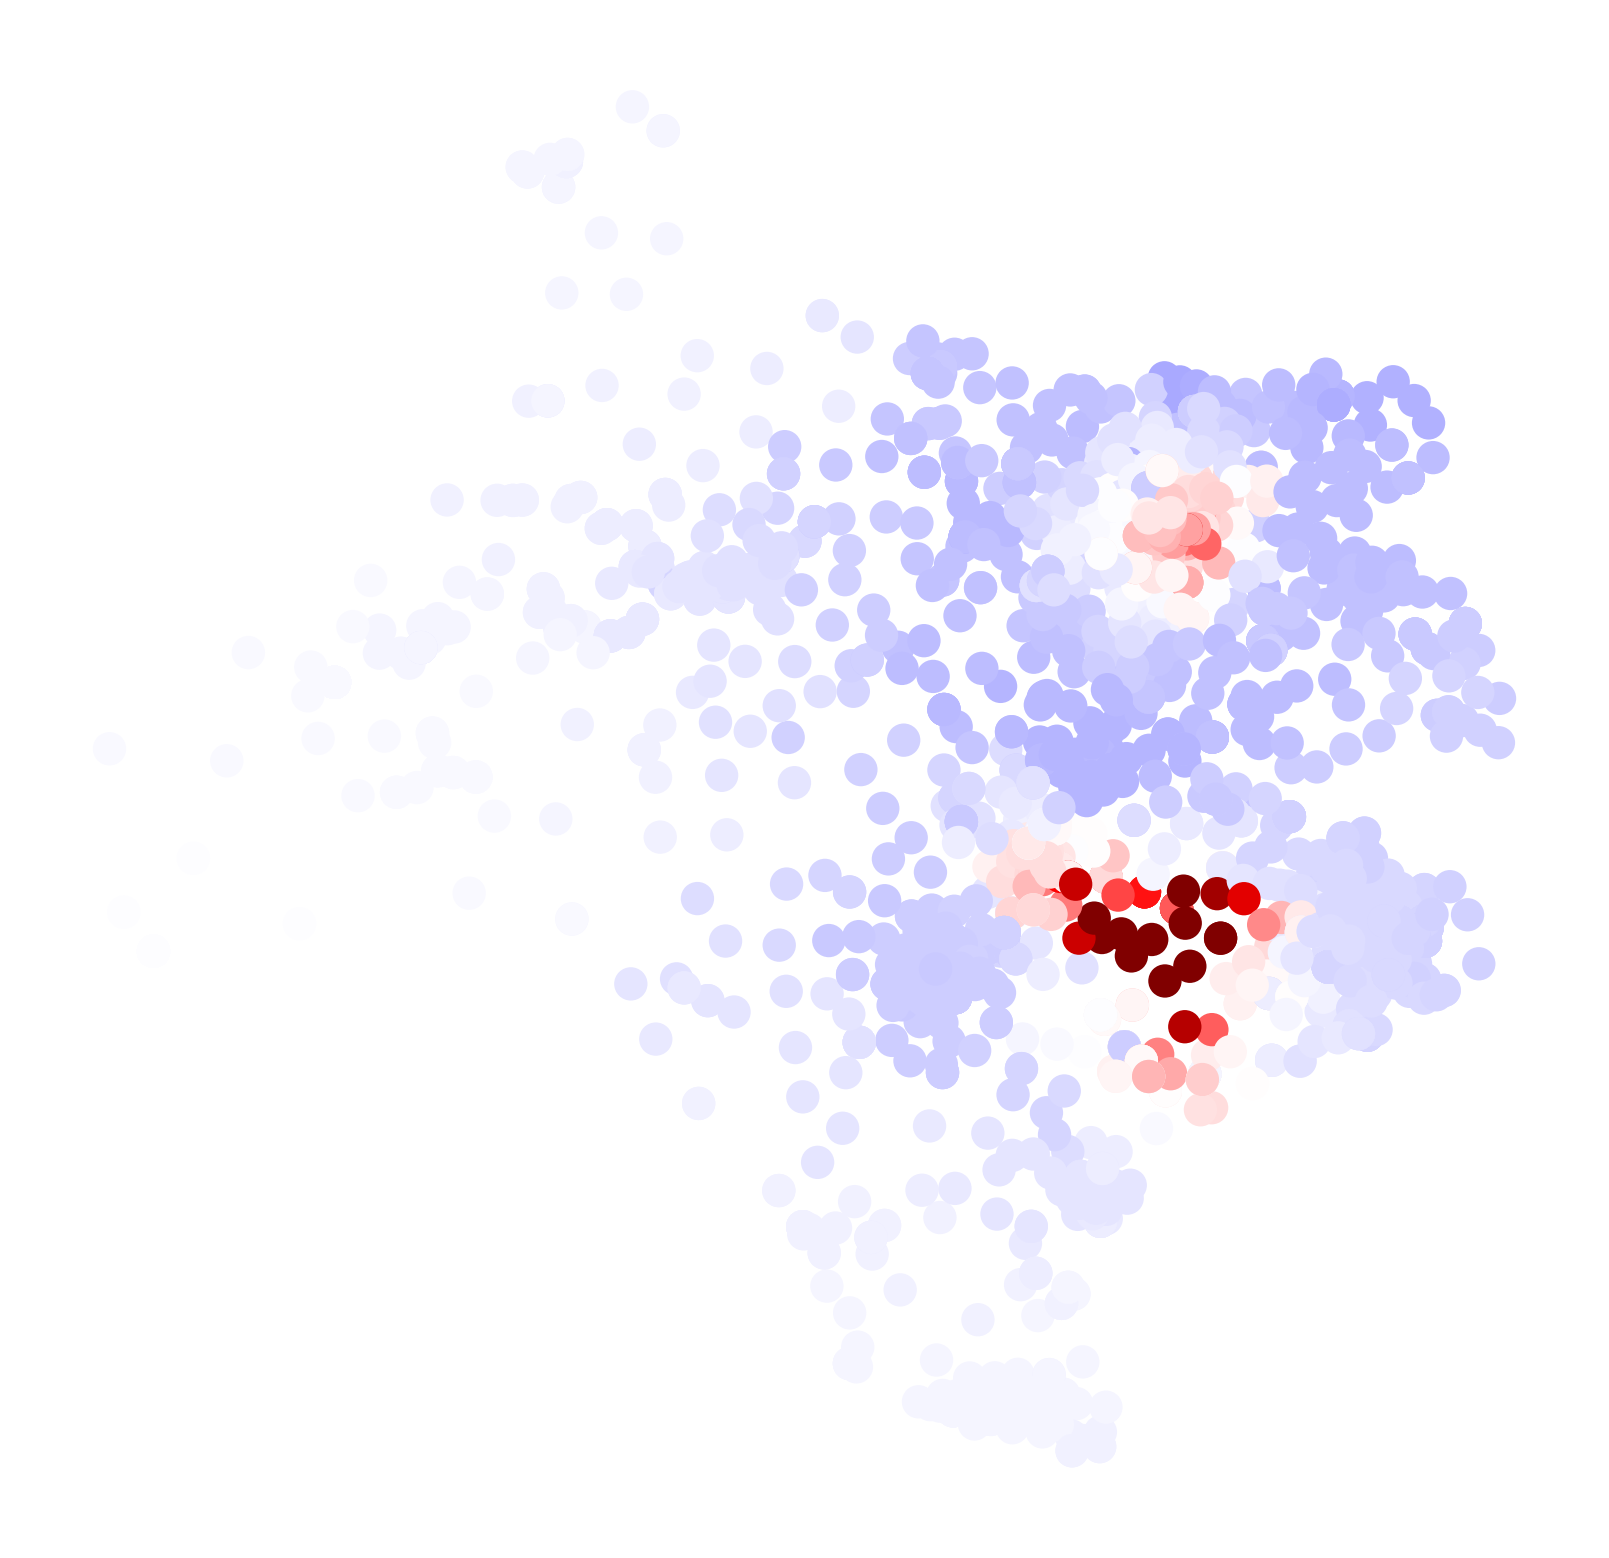
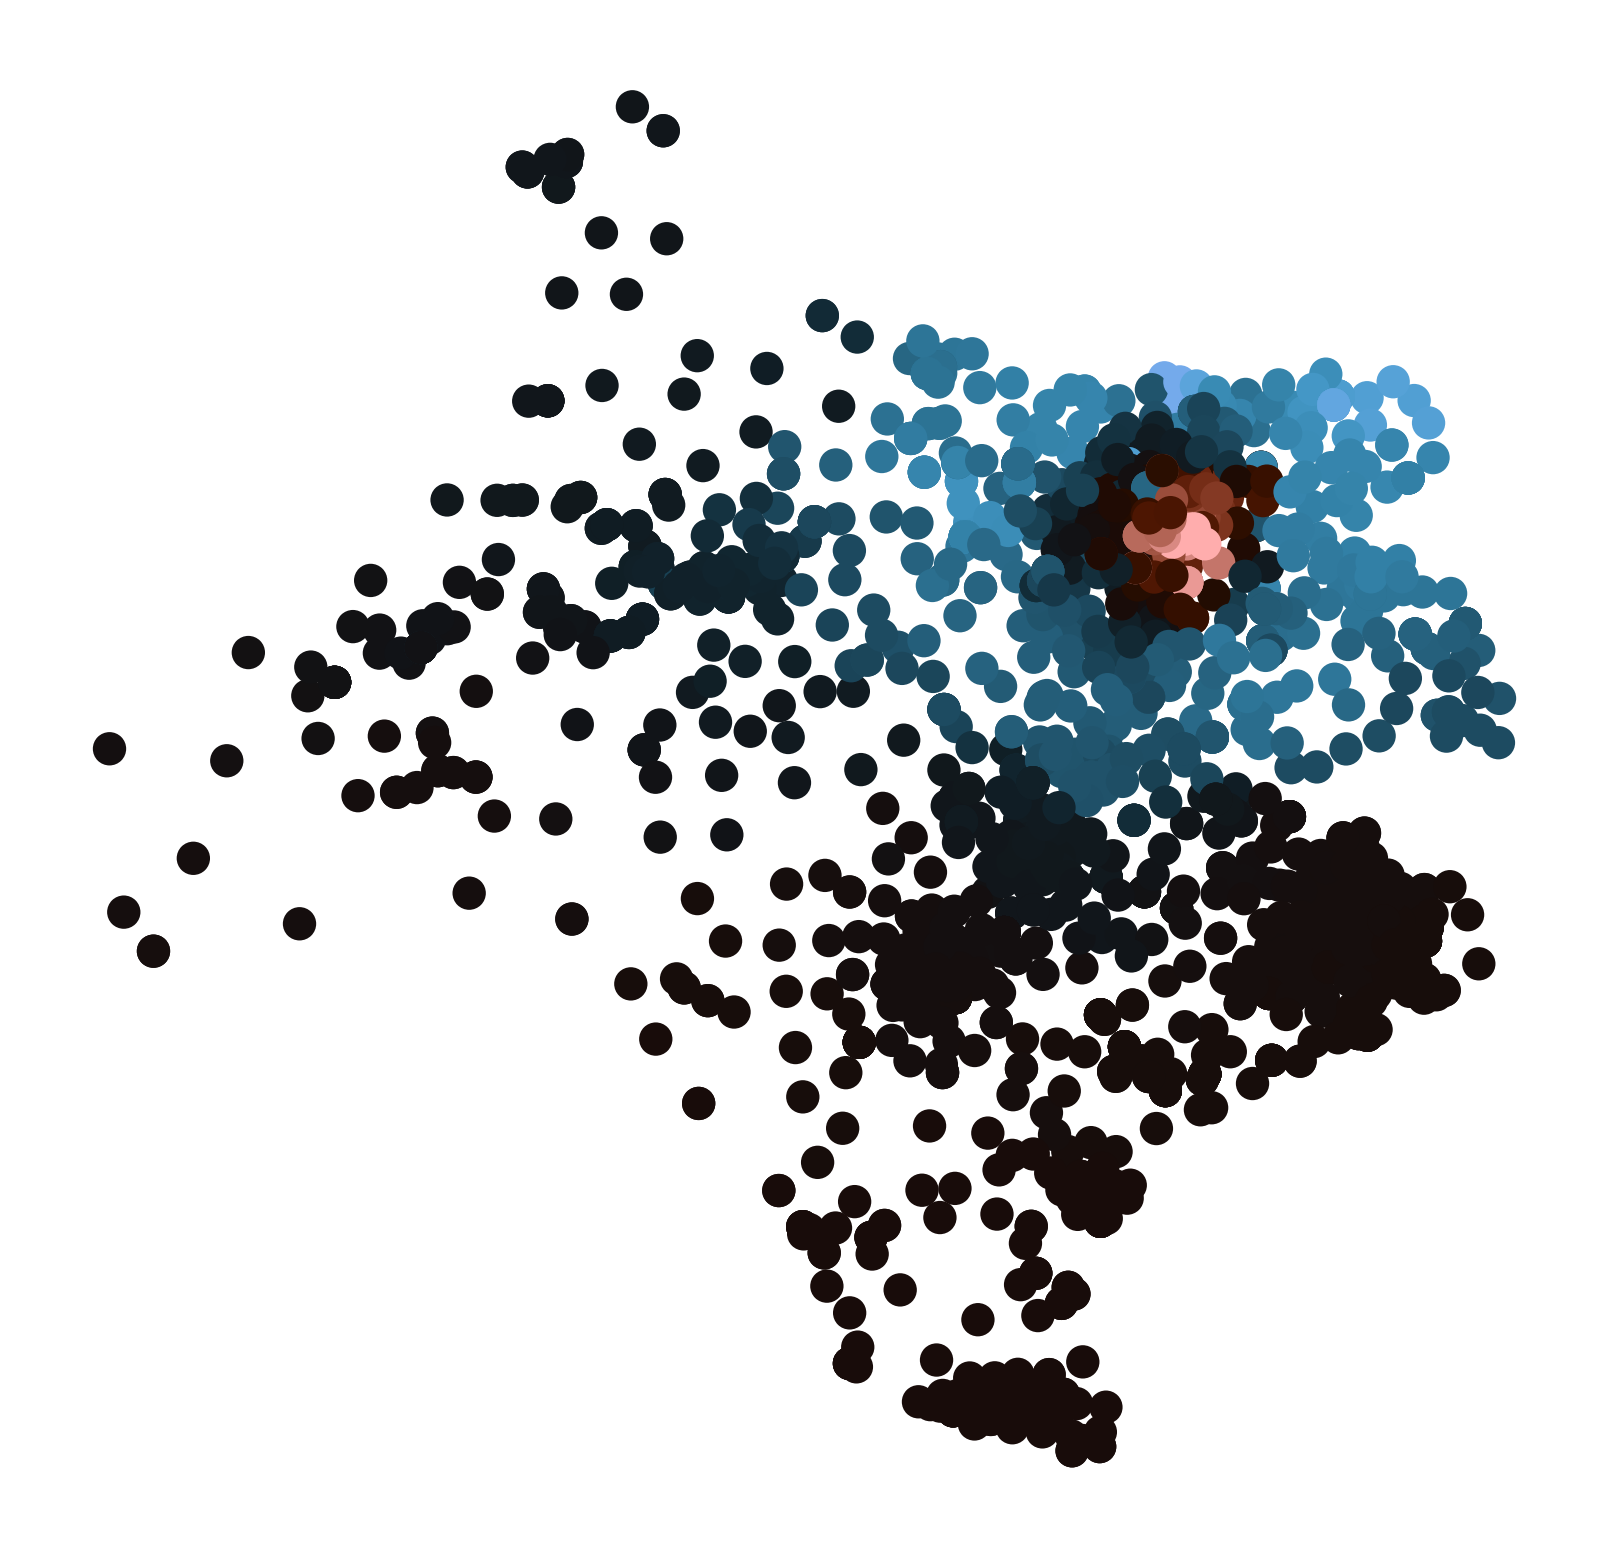
improve colors

diff --git a/examples/demo_dynamic_stream.py b/examples/demo_dynamic_stream.py
@@ -13,32 +13,32 @@ plt.rcParams['ytick.labelsize'] = 10
 plt.rcParams['figure.titlesize'] = 16 # For suptitle if used
 
 
-
 # --- Helper Function for Stream Simulation ---
+
+# Sparse topology events throughout the stream, known a priori
+events_data = {
+    150: (1000, 5000, 1.0),
+    350: (2000, 6000, 1.0),
+    400: (3000, 7000, 1.0),
+    420: (3000, 7001, 1.0),
+    450: (3000, 7002, 1.0),
+    500: (3000, 7003, 1.0),
+    550: (3000, 7004, 1.0),
+    750: (4000, 8000, 1.0),
+    950: (5000, 9000, 1.0)
+}
+first_event_time = next(iter(events_data.keys())) if events_data else None
 def get_incoming_data(t):
     """Mock signal generator and network event simulator."""
     n_nodes = L.shape[0]
     # Generate random signal (Fortran order for CHOLMOD efficiency)
     f_t = np.asfortranarray(np.random.randn(n_nodes, 1).astype(np.float64))
-
-    # Sparse topology events throughout the stream
-    events = {
-        150: (1000, 5000, 1.0),
-        350: (2000, 6000, 1.0),
-        400: (3000, 7000, 1.0),
-        420: (3000, 7001, 1.0),
-        450: (3000, 7002, 1.0),
-        500: (3000, 7003, 1.0),
-        550: (3000, 7004, 1.0),
-        750: (4000, 8000, 1.0),
-        950: (5000, 9000, 1.0)
-    }
-    event = events.get(t)
+    event = events_data.get(t)
     
     return f_t, event
 
 # DOC_START_CODE_EXCLUDE_IMPORTS
-from sgwt.dynamic import DyConvolve
+from sgwt import DyConvolve
 from sgwt import DELAY_USA as L
 
 # --- Configuration ---
@@ -50,11 +50,8 @@ print("SGWT Online Processor Emulation")
 print(f"Graph:  Synthetic USA ({L.shape[0]} nodes)")
 print(f"Stream: {N_SAMPLES} samples\n")
 
-# Data to plot
-event_times = []
 avg_signal_magnitudes = []
-# --- Execution Context ---
-# 2. Execution Context
+
 with DyConvolve(L, poles) as conv:
     for t in range(N_SAMPLES):
         f_t, event = get_incoming_data(t)
@@ -62,31 +59,28 @@ with DyConvolve(L, poles) as conv:
         if event:
             u, v, w = event
             conv.addbranch(*event)
-            event_times.append(t) # Record event time
-            print(f"[{t:04d}] \033[93mEVENT\033[0m  | Topology Update: Edge ({u} <-> {v}) added")
+            print(f"[{t:04d}] EVENT | Topology Update: Edge ({u} <-> {v}) added")
 
         # Compute wavelet coefficients
         W = conv.bandpass(f_t)
         avg_signal_magnitudes.append(np.mean(np.abs(f_t))) # Record average signal magnitude
         
-        if not event:
-            print(f"[{t:04d}] STATUS | Stream processing active")
+        if not event: print(f"[{t:04d}] STATUS | Stream processing active")
 
 # DOC_END_CODE_EXCLUDE_PLOT
 # Create a plot to visualize stream processing
 fig, ax = plt.subplots(figsize=(10, 5))
 
 ax.plot(range(N_SAMPLES), avg_signal_magnitudes, label='Average Signal Magnitude', color='blue', alpha=0.7)
-for et in event_times:
-    ax.axvline(et, color='red', linestyle='--', alpha=0.6, label='Topology Event' if et == event_times[0] else "")
-
-ax.set_xlim(0, N_SAMPLES)
+for et in events_data.keys():
+    ax.axvline(et, color='red', linestyle='--', alpha=0.6, label='Topology Event' if et == first_event_time else "")
 
 ax.set_xlabel('Time Step')
 ax.set_ylabel('Average Signal Magnitude')
 ax.set_title('Dynamic GSP: Online Signal and Topology Events')
 ax.legend()
 ax.grid(True, linestyle=':', alpha=0.7)
+ax.set_xlim(0, N_SAMPLES)
 
 plt.tight_layout()
 

diff --git a/examples/demo_filters_2.py b/examples/demo_filters_2.py
@@ -1,6 +1,7 @@
 import os
 import matplotlib.pyplot as plt
 
+import time
 # DOC_START_CODE_EXCLUDE_IMPORTS
 from sgwt import Convolve, impulse
 from sgwt import DELAY_EASTWEST as L
@@ -8,17 +9,21 @@ from sgwt import COORD_EASTWEST as C
 
 # Impulse
 X  = impulse(L, n=65000)
+X  -= impulse(L, n=35000)
 
 # Scales
 s = [3e0]
 
 # Memory Efficient Context
+start_time = time.time()
 with Convolve(L) as conv:
 
     # Third Order Band-Pass
     BP = conv.bandpass(X, s)[0]
     BP = conv.bandpass(BP, s)[0]
     BP = conv.bandpass(BP, s)[0]
+end_time = time.time()
+execution_time = end_time - start_time
 # DOC_END_CODE_EXCLUDE_PLOT
 from demo_plot import plot_signal
 plot_signal(BP[:,0], C, 'coolwarm')
@@ -26,11 +31,32 @@ plot_signal(BP[:,0], C, 'coolwarm')
 # Save the figure for documentation
 script_dir = os.path.dirname(os.path.abspath(__file__))
 project_root = os.path.abspath(os.path.join(script_dir, '..'))
-static_images_dir = os.path.join(project_root, 'docs', '_static', 'images')
+static_dir = os.path.join(project_root, 'docs', '_static')
 
-# Ensure the directory exists
-os.makedirs(static_images_dir, exist_ok=True)
-
-save_path = os.path.join(static_images_dir, 'demo_filters_2_bandpass.png')
+# Save image
+images_dir = os.path.join(static_dir, 'images')
+os.makedirs(images_dir, exist_ok=True)
+save_path = os.path.join(images_dir, 'demo_filters_2_bandpass.png')
 plt.savefig(save_path, dpi=400, bbox_inches='tight')
+
+# Save timing table for documentation
+text_dir = os.path.join(static_dir, 'text')
+os.makedirs(text_dir, exist_ok=True)
+timing_table_path = os.path.join(text_dir, 'demo_filters_2_timing.rst')
+
+table_content = f"""
+.. list-table:: Performance
+   :header-rows: 1
+   :widths: 25 10
+   :align: left
+
+   * - Operation
+     - Time (s)
+   * - 3rd-Order Band-Pass Convolution
+     - {execution_time:.4f}
+"""
+
+with open(timing_table_path, 'w') as f:
+    f.write(table_content.strip())
+
 plt.show()

diff --git a/examples/demo_recon.py b/examples/demo_recon.py
@@ -6,7 +6,7 @@ from sgwt import Convolve
 from sgwt import IMPEDANCE_WECC as L
 import numpy as np
 
-# Bus Index, atitude (Y), Longitude (X)
+# Bus Index, Latitude (Y), Longitude (X)
 MEASURMENTS = [
     [ 191    ,-122.45    ,46.719],
     [ 202    ,-101.33    ,46.5  ],
@@ -29,18 +29,14 @@ for idx, long, lat in MEASURMENTS:
 J = np.diagflat(X[:,0]!=0)
 
 # Scale of Recon
-s = 5
+s = [5]
 
 with Convolve(L) as conv:
 
     for i in range(7000):
-
         B = (X - J@Xh).copy(order='F')
-
-        dX = conv.lowpass(B, [s])
-
+        dX = conv.lowpass(B, s)
         Xh += s * dX[0]
-
 # DOC_END_CODE_EXCLUDE_PLOT
 plt.figure(figsize=(8, 6)) # Create a figure for this plot
 plt.scatter(Xh[:,0], Xh[:,1] , c='k', edgecolors='none', label='Reconstructed Signal')

diff --git a/examples/demo_filters_3.py b/examples/demo_filters_3.py
@@ -7,21 +7,23 @@ from sgwt import DELAY_USA as L
 from sgwt import COORD_USA as C
 
 # Impulse
-X  = impulse(L, n=15000)
+X  = impulse(L, n=35000)
 
 # Scales
-s = [3e0]
+s = [10]#[3e0]
 
 # Memory Efficient Context
 with Convolve(L) as conv:
 
-    # Third Order Band-Pass
-    BP = conv.bandpass(X, s)[0]
-    BP = conv.bandpass(BP, s)[0]
-    BP = conv.bandpass(BP, s)[0]
+    #  Fourth Order Band-Pass
+    Y = conv.bandpass(X, s)[0]
+    Y = conv.bandpass(Y, s)[0]
+    Y = conv.bandpass(Y, s)[0]
+    Y = conv.bandpass(Y, s)[0]
+
 # DOC_END_CODE_EXCLUDE_PLOT
 from demo_plot import plot_signal
-plot_signal(BP[:,0], C, 'coolwarm')
+plot_signal(Y[:,0], C, 'berlin')
 
 # Save the figure for documentation
 script_dir = os.path.dirname(os.path.abspath(__file__))

diff --git a/examples/demo_filters_1.py b/examples/demo_filters_1.py
@@ -7,22 +7,19 @@ from sgwt import DELAY_TEXAS as L
 from sgwt import COORD_TEXAS as C
 
 # Impulses
-X  = impulse(L, n=1200)
-X += impulse(L, n=600)
+X  = impulse(L, n=600)
 
 # Scales
 s = [1e-1]
 
-# Memory Efficient Context
 with Convolve(L) as conv:
-
     LP = conv.lowpass(X, s)
     BP = conv.bandpass(X, s)
     HP = conv.highpass(X, s)
 # DOC_END_CODE_EXCLUDE_PLOT
 # Assuming plot_signal creates and sets the current matplotlib figure
 from demo_plot import plot_signal
-plot_signal(BP[0][:,0], C, 'seismic')
+plot_signal(BP[0][:,0], C, 'berlin')
 
 # Save the figure for documentation
 script_dir = os.path.dirname(os.path.abspath(__file__)) # e.g., .../sparse-sgwt/examples

diff --git a/README.rst b/README.rst
@@ -13,6 +13,9 @@ Sparse Graph Signal Processing (GSP)
     :target: ./LICENSE.md
     :alt: License
 
+For detailed documentation, please visit the `documentation website <https://sgwt.readthedocs.io/en/stable/>`_.
+
+
 A high-performance Python library for sparse Graph Signal Processing (GSP) and Spectral Graph Wavelet Transforms (SGWT). This package leverages the ``CHOLMOD`` library for efficient sparse direct solvers, providing significant speedups over traditional dense or iterative methods for large-scale graph convolution.
 
 Key Features

diff --git a/docs/static/demo_inpainting.rst b/docs/static/demo_inpainting.rst
@@ -8,10 +8,8 @@ Reconstructs a smooth signal across the USA grid using only a small fraction (e.
 .. literalinclude:: ../../examples/demo_inpainting.py
    :language: python
    :caption: Signal Inpainting
+   :start-after: # DOC_START_CODE_EXCLUDE_IMPORTS
    :end-before: # DOC_END_CODE_EXCLUDE_PLOT
-
-.. image:: /_static/images/inpainting_reconstruction.png
-   :alt: Signal Inpainting Reconstruction Example
 
 .. image:: /_static/images/inpainting_reconstruction.png
    :alt: Signal Inpainting Reconstruction Example

diff --git a/docs/static/demo_filters_2.rst b/docs/static/demo_filters_2.rst
@@ -13,3 +13,5 @@ Performs filtering operations on the larger synthetic East-West US grid (~65k no
 
 .. image:: /_static/images/demo_filters_2_bandpass.png
    :alt: Band-pass filtered signal on East-West Grid Example
+
+.. include:: /_static/text/demo_filters_2_timing.rst

diff --git a/docs/_static/text/demo_filters_2_timing.rst b/docs/_static/text/demo_filters_2_timing.rst
@@ -1,0 +1,9 @@
+.. list-table:: Performance
+   :header-rows: 1
+   :widths: 25 10
+   :align: left
+
+   * - Operation
+     - Time (s)
+   * - 3rd-Order Band-Pass Convolution
+     - 0.0603
